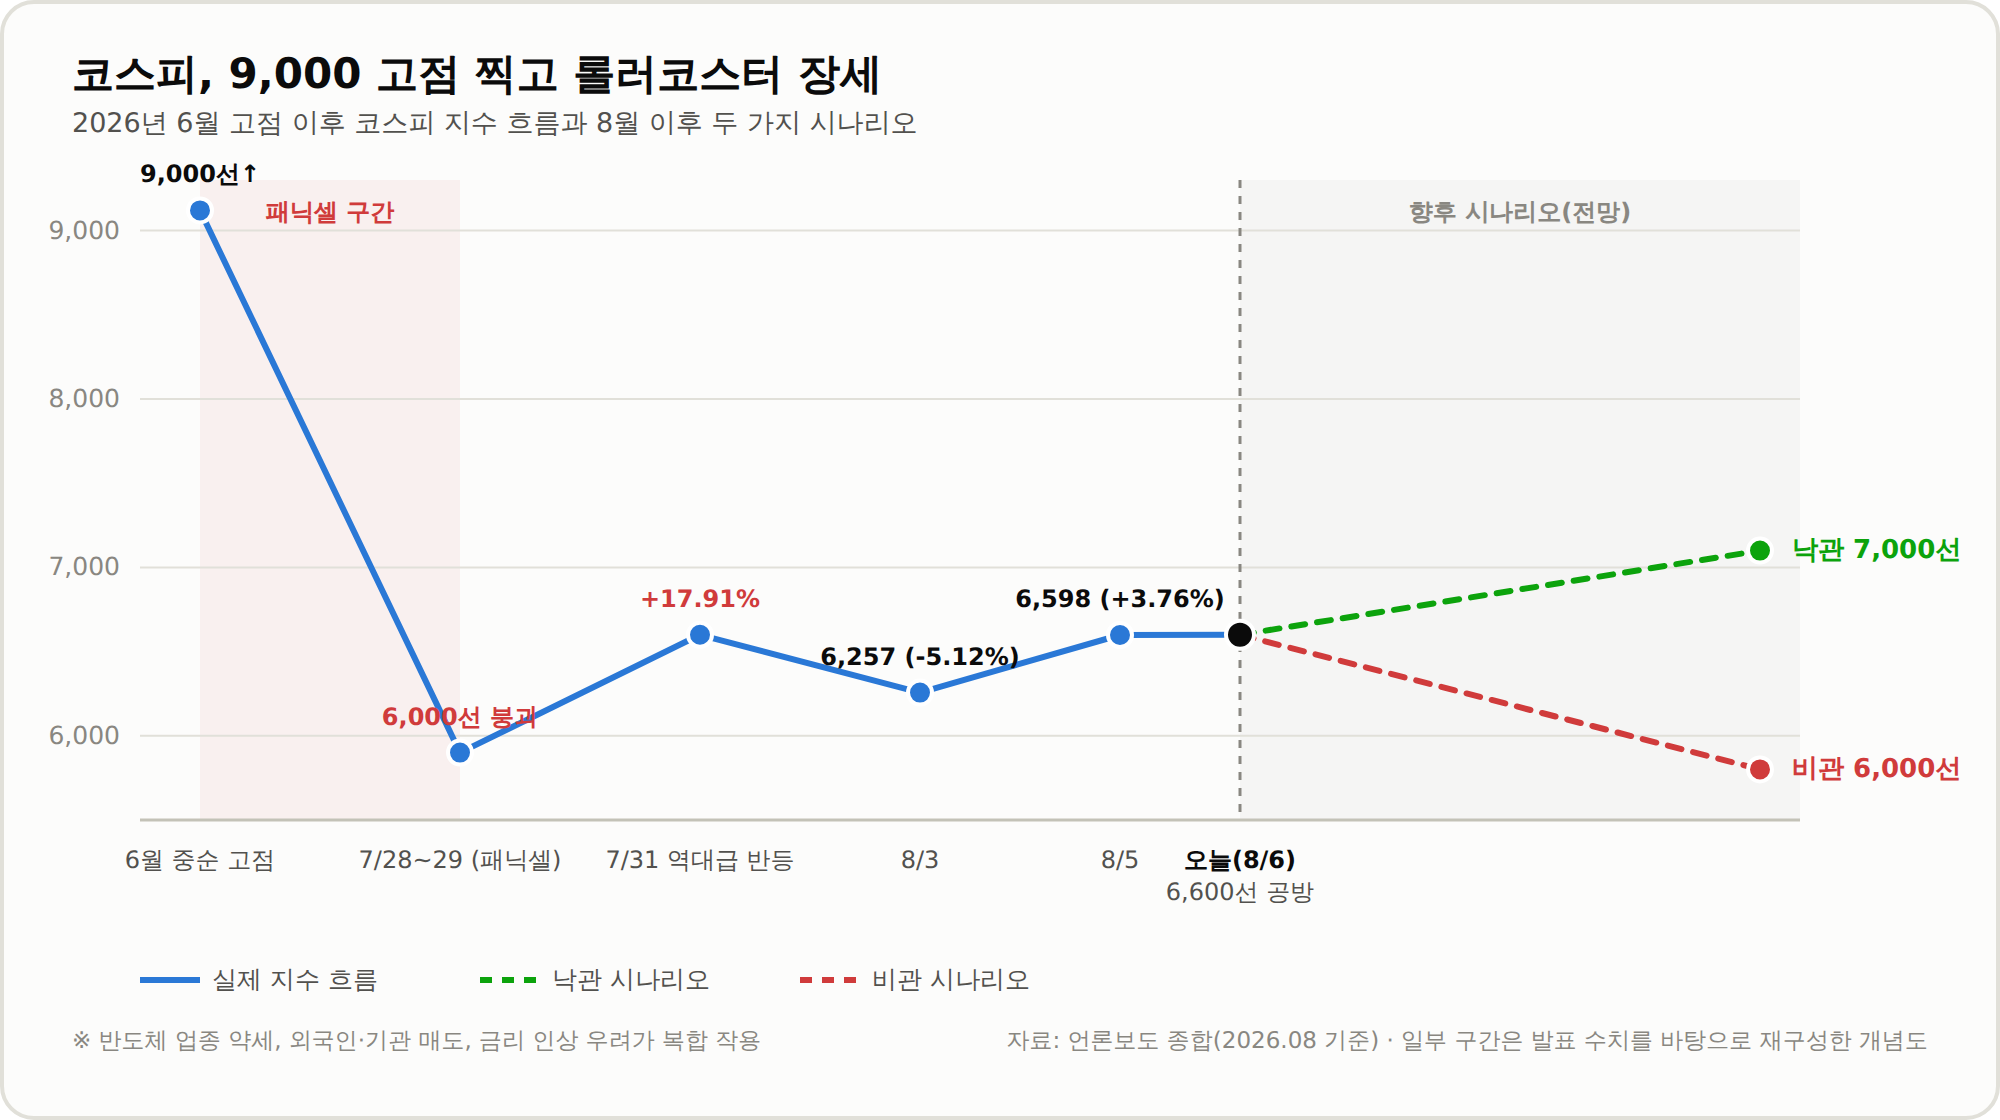
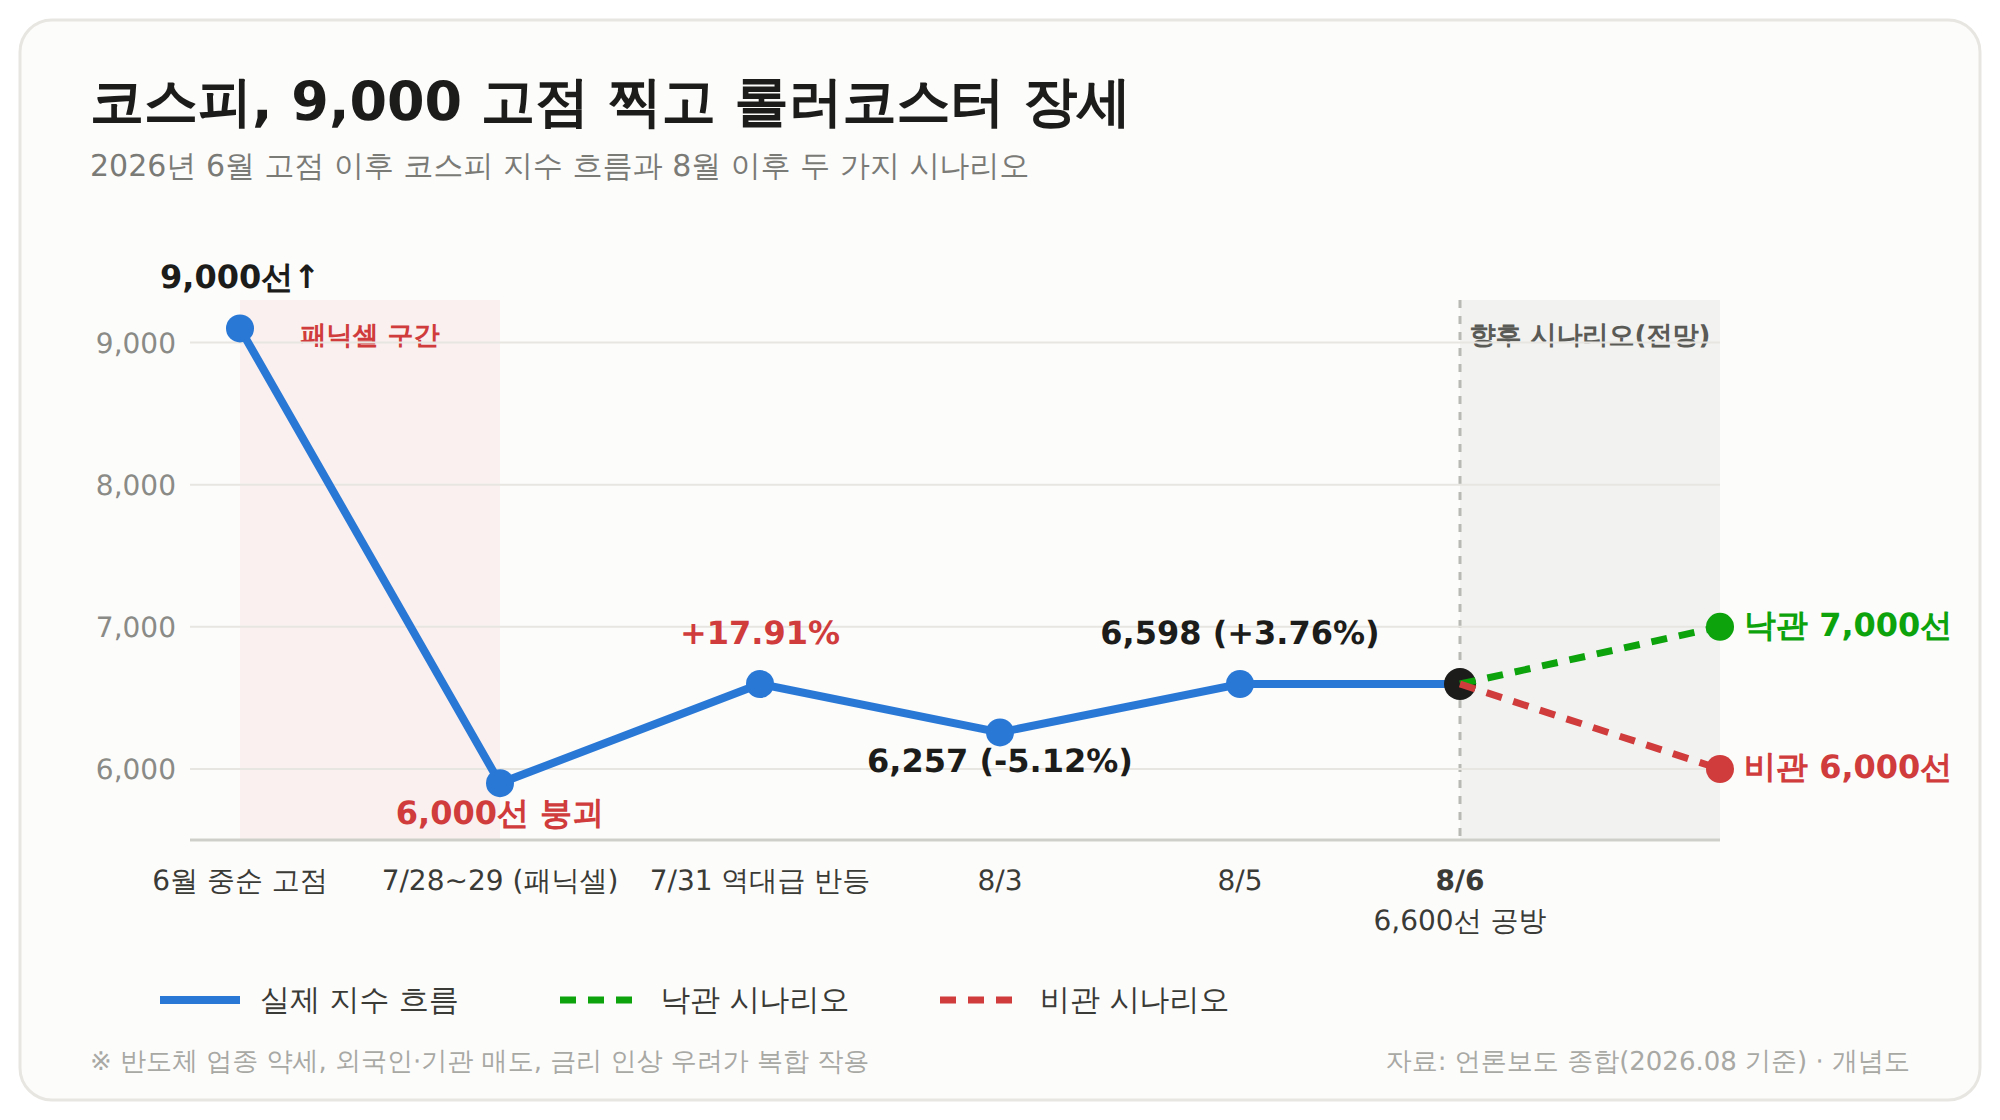
차트 이미지에 박혀 있던 종목번호·"오늘" 텍스트 제거 (#25)
* fix: 차트 이미지에 박혀 있던 종목번호·"오늘" 텍스트 제거

- 커버 이미지 다음으로, 실제 차트 이미지 3개에도 텍스트가 그림으로
  박혀 있던 문제 수정:
  - ecopro-price-trend.png: x축 라벨의 "2026.8.6(오늘)" → "2026.8.6"
  - hanon-price-target.png: 제목의 "한온시스템(018880)" → "한온시스템"
  - kospi-trend-2026.png: x축 라벨의 "오늘(8/6)" → "8/6"
  SVG로 재작성 후 Playwright 2x 렌더링으로 PNG 재생성(SVG는 커밋하지
  않음, CLAUDE.md PNG 컨벤션 준수)
- 한온시스템 글 본문에도 남아있던 "오늘(8월 6일)" 표기를 "8월 6일"로
  수정(에코프로 글에서 이미 고친 것과 동일한 문제)
- posts/*.md ↔ src/App.tsx 동기화, marked.parse() 전수 재검증
  (** 누출·괄호 불일치 0건), npm run build 통과

Claude-Session: https://claude.ai/code/session_01WzxL9fDSxe2pwdrpmEY5Nh

* fix: 에코프로 지주사 2분기 매출 수치 누락 보완

- "에코프로(지주) 매출: 감소, 영업이익 329억원..." 처럼 매출 증감폭이
  구체적 수치 없이 "감소"로만 적혀 있던 문제 수정
- 실제 수치(연결기준 매출 8,208억원, 전년 대비 -11.9%)로 보완
  (출처: ZDNet Korea, 이투데이, 머니투데이 등 2026-08-04 보도)
- posts/stock/ecopro-analysis.md ↔ src/App.tsx post-11 동기화
- marked.parse() 전수 재검증(** 누출·괄호 불일치 0건), npm run build 통과

Claude-Session: https://claude.ai/code/session_01WzxL9fDSxe2pwdrpmEY5Nh

---------

diff --git a/src/App.tsx b/src/App.tsx
@@ -123,7 +123,7 @@ const samplePosts: Post[] = [
 
 | 구분 | 2026년 2분기 실적 |
 | --- | --- |
-| 에코프로(지주) 매출 | 감소, 영업이익 329억원(전년 대비 +102.7%) |
+| 에코프로(지주, 연결기준) 매출 | 8,208억원(전년 대비 -11.9%), 영업이익 329억원(전년 대비 +102.7%) |
 | 에코프로비엠(자회사) 매출 | 5,767억원(전년 대비 -26%) |
 | 에코프로비엠 영업이익 | 180억원(전년 대비 -63.2%) |
 
@@ -468,7 +468,7 @@ const samplePosts: Post[] = [
 - **7월 31일**: 저점 대비 **+17.91%, 역대 최고 일간 상승률**로 급반등
 - **8월 3일**: 차익실현 매물 + 반도체 업종 약세(-8.71%) + 외국인·기관 대규모 매도(각각 -2.8조 원, -1.9조 원)로 **-5.12%** 재급락, 6,257.45 마감
 - **8월 5일**: 미국 증시 훈풍에 힘입어 **+3.76%** 반등, 6,598.26 마감
-- **오늘(8월 6일)**: 6,600선 안착을 시도하는 국면
+- **8월 6일**: 6,600선 안착을 시도하는 국면
 
 한 마디로 "**9,000 찍고 6,000대로 고꾸라졌다가, 지금은 6,600선에서 방향을 탐색 중**"인 시장입니다. 증권가에서는 7월 급락이 펀더멘털 대비 과도했다는 평가와 함께 8월 중 7,000선 재도전 가능성을 이야기하지만, 동시에 반도체 피크아웃 우려·금리 인상 우려(8월 금통위)가 여전히 변수로 남아 있어 **변동성 자체는 당분간 계속될 가능성**이 높습니다.
 

diff --git a/posts/stock/hanon-systems-analysis.md b/posts/stock/hanon-systems-analysis.md
@@ -27,7 +27,7 @@ naverCategory: "국내주식"
 - **7월 31일**: 저점 대비 **+17.91%, 역대 최고 일간 상승률**로 급반등
 - **8월 3일**: 차익실현 매물 + 반도체 업종 약세(-8.71%) + 외국인·기관 대규모 매도(각각 -2.8조 원, -1.9조 원)로 **-5.12%** 재급락, 6,257.45 마감
 - **8월 5일**: 미국 증시 훈풍에 힘입어 **+3.76%** 반등, 6,598.26 마감
-- **오늘(8월 6일)**: 6,600선 안착을 시도하는 국면
+- **8월 6일**: 6,600선 안착을 시도하는 국면
 
 한 마디로 "**9,000 찍고 6,000대로 고꾸라졌다가, 지금은 6,600선에서 방향을 탐색 중**"인 시장입니다. 증권가에서는 7월 급락이 펀더멘털 대비 과도했다는 평가와 함께 8월 중 7,000선 재도전 가능성을 이야기하지만, 동시에 반도체 피크아웃 우려·금리 인상 우려(8월 금통위)가 여전히 변수로 남아 있어 **변동성 자체는 당분간 계속될 가능성**이 높습니다.
 

diff --git a/posts/stock/ecopro-analysis.md b/posts/stock/ecopro-analysis.md
@@ -114,7 +114,7 @@ naverCategory: "국내주식"
 
 | 구분 | 2026년 2분기 실적 |
 | --- | --- |
-| 에코프로(지주) 매출 | 감소, 영업이익 329억원(전년 대비 +102.7%) |
+| 에코프로(지주, 연결기준) 매출 | 8,208억원(전년 대비 -11.9%), 영업이익 329억원(전년 대비 +102.7%) |
 | 에코프로비엠(자회사) 매출 | 5,767억원(전년 대비 -26%) |
 | 에코프로비엠 영업이익 | 180억원(전년 대비 -63.2%) |
 
